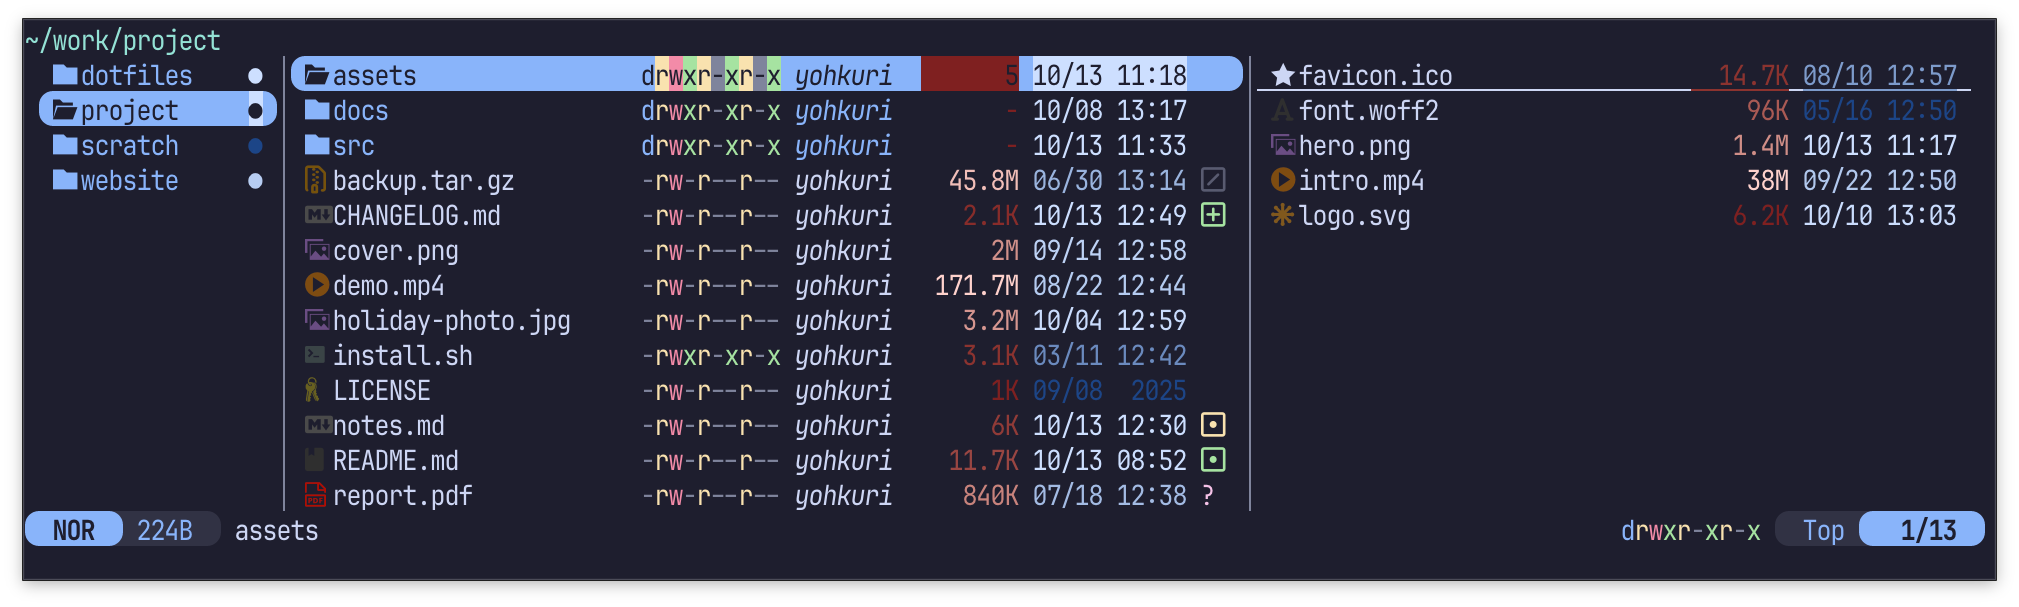
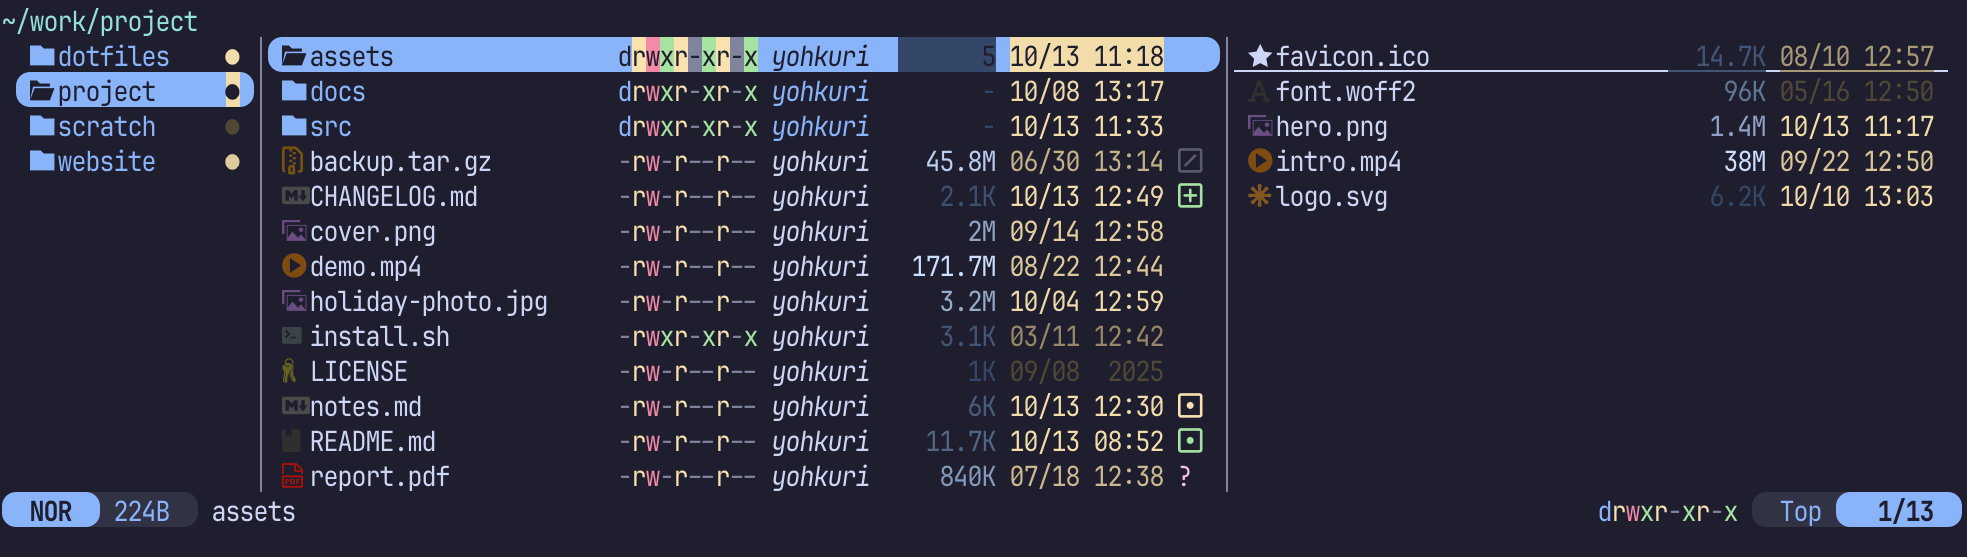
docs: recommend the README's setup in the flavor's colours
The section was called "My favourite setup", the one first person in a
README written in the third, and it read as the author's taste rather
than as a setup to start from. "Recommended setup" says what it is for.

Its colours move to Catppuccin Mocha's own, so they agree with the
flavor the same section installs: size is its blue, #89b4fa, where it
was Tailwind's red-500, and mtime and the parent pane's mark are its
yellow, #f9e2af, where they were Tailwind's blue-500.

The picture is retaken with test/readme.py in Ghostty at 140x15, and its
alt text follows the colours. It is taken without the window's shadow,
so it is 1967 pixels wide where the last one was 2019, and readme.py
says so.

Changed region(s): [[0.0, 0.0, 1.0, 1.0]]

diff --git a/test/readme.py b/test/readme.py
@@ -3,7 +3,7 @@
 
     test/readme.py  build the folder, wait for the window, and open it
 
-The configuration is the README's own: the blocks under `My favourite setup`,
+The configuration is the README's own: the blocks under `Recommended setup`,
 each naming its file on its first line the way the pages in `docs/examples/`
 spell them, written out as they stand. The folder is built here, under a
 scratch home that Yazi is given as `HOME`, so its header reads
@@ -16,7 +16,7 @@ is not found that way, and Yazi would run without it.
 Nothing here sets the terminal up, since nothing could for every terminal:
 take the picture on the flavor's background, `#1e1e2e` for Catppuccin Mocha,
 with a Nerd Font, and at a font size that gives the picture its resolution --
-the PNG in `docs/images/` is 2019 pixels wide. This waits for the window to
+the PNG in `docs/images/` is 1967 pixels wide. This waits for the window to
 reach the width the README says the picture is, and the height that holds the
 folder, then opens Yazi with `assets` hovered. Take the screenshot, quit,
 and the scratch home is removed.
@@ -67,7 +67,7 @@ from harness import (
 )
 
 README = ROOT / "README.md"
-SECTION = "## My favourite setup"
+SECTION = "## Recommended setup"
 #: A heading that ends the section: one at its own level or above, so a
 #: `###` inside it does not cut its blocks off.
 ENDS = re.compile(r"^#{1,2}\s")

diff --git a/README.md b/README.md
@@ -4,9 +4,9 @@
 mtime, or permissions. supaline is a plugin that turns it into as many columns
 as you like, in any order, at any width, each styled its own way.
 
-![Yazi with permissions, an italic user, size in red and mtime in blue, each lighter the larger or the newer it is, beside git.yazi's signs; a blue dot by mtime in the parent pane, and size and mtime in the preview pane](docs/images/readme.png)
+![Yazi with permissions, an italic user, size in blue and mtime in yellow, each lighter the larger or the newer it is, beside git.yazi's signs; a yellow dot by mtime in the parent pane, and size and mtime in the preview pane](docs/images/readme.png)
 
-It is drawn from [My favourite setup](#my-favourite-setup), and
+It is drawn from the [recommended setup](#recommended-setup), and
 [the examples](docs/examples/README.md) show more, each with the configuration
 that draws it.
 
@@ -135,7 +135,7 @@ supaline:setup {
 [Writing a column](docs/columns.md) covers per-folder statistics, gradients
 and options of your own.
 
-## My favourite setup
+## Recommended setup
 
 The picture at the top, in Ghostty 140 columns wide, on the
 [Catppuccin Mocha](https://github.com/yazi-rs/flavors) flavor, with
@@ -144,8 +144,9 @@ supaline. Both are installed with `ya pkg add yazi-rs/flavors:catppuccin-mocha`
 and `ya pkg add yazi-rs/plugins:git`. The file list's columns and git.yazi's
 sign take about 40 cells, so a much narrower terminal leaves little room for
 the names. git.yazi's signs and the file icons are Nerd Font glyphs. Each of
-`size` and `mtime` is one colour spread across a lightness range, and so is
-`mark`, a column of your own in the parent pane:
+`size` and `mtime` is one of the flavor's own colours, blue and yellow, spread
+across a lightness range, and so is `mark`, a column of your own in the parent
+pane, in mtime's yellow:
 
 ```lua
 -- ~/.config/yazi/init.lua
@@ -155,7 +156,7 @@ local function mtime(file) return file.cha.mtime or 0 end
 
 supaline.column("mark", {
   width = 1,
-  style = "#3b82f6 <->",
+  style = "#f9e2af <->",
   stats = supaline.extremes(mtime),
   render = function(file, ctx)
     return "●", ctx.style_at(ctx.ratio(mtime(file)))
@@ -204,8 +205,8 @@ dark  = "catppuccin-mocha"
 light = "catppuccin-mocha"
 
 [supaline]
-size  = "#ef4444 <->"
-mtime = "#3b82f6 <->"
+size  = "#89b4fa <->"
+mtime = "#f9e2af <->"
 
 [git]
 clean_sign   = "  "
